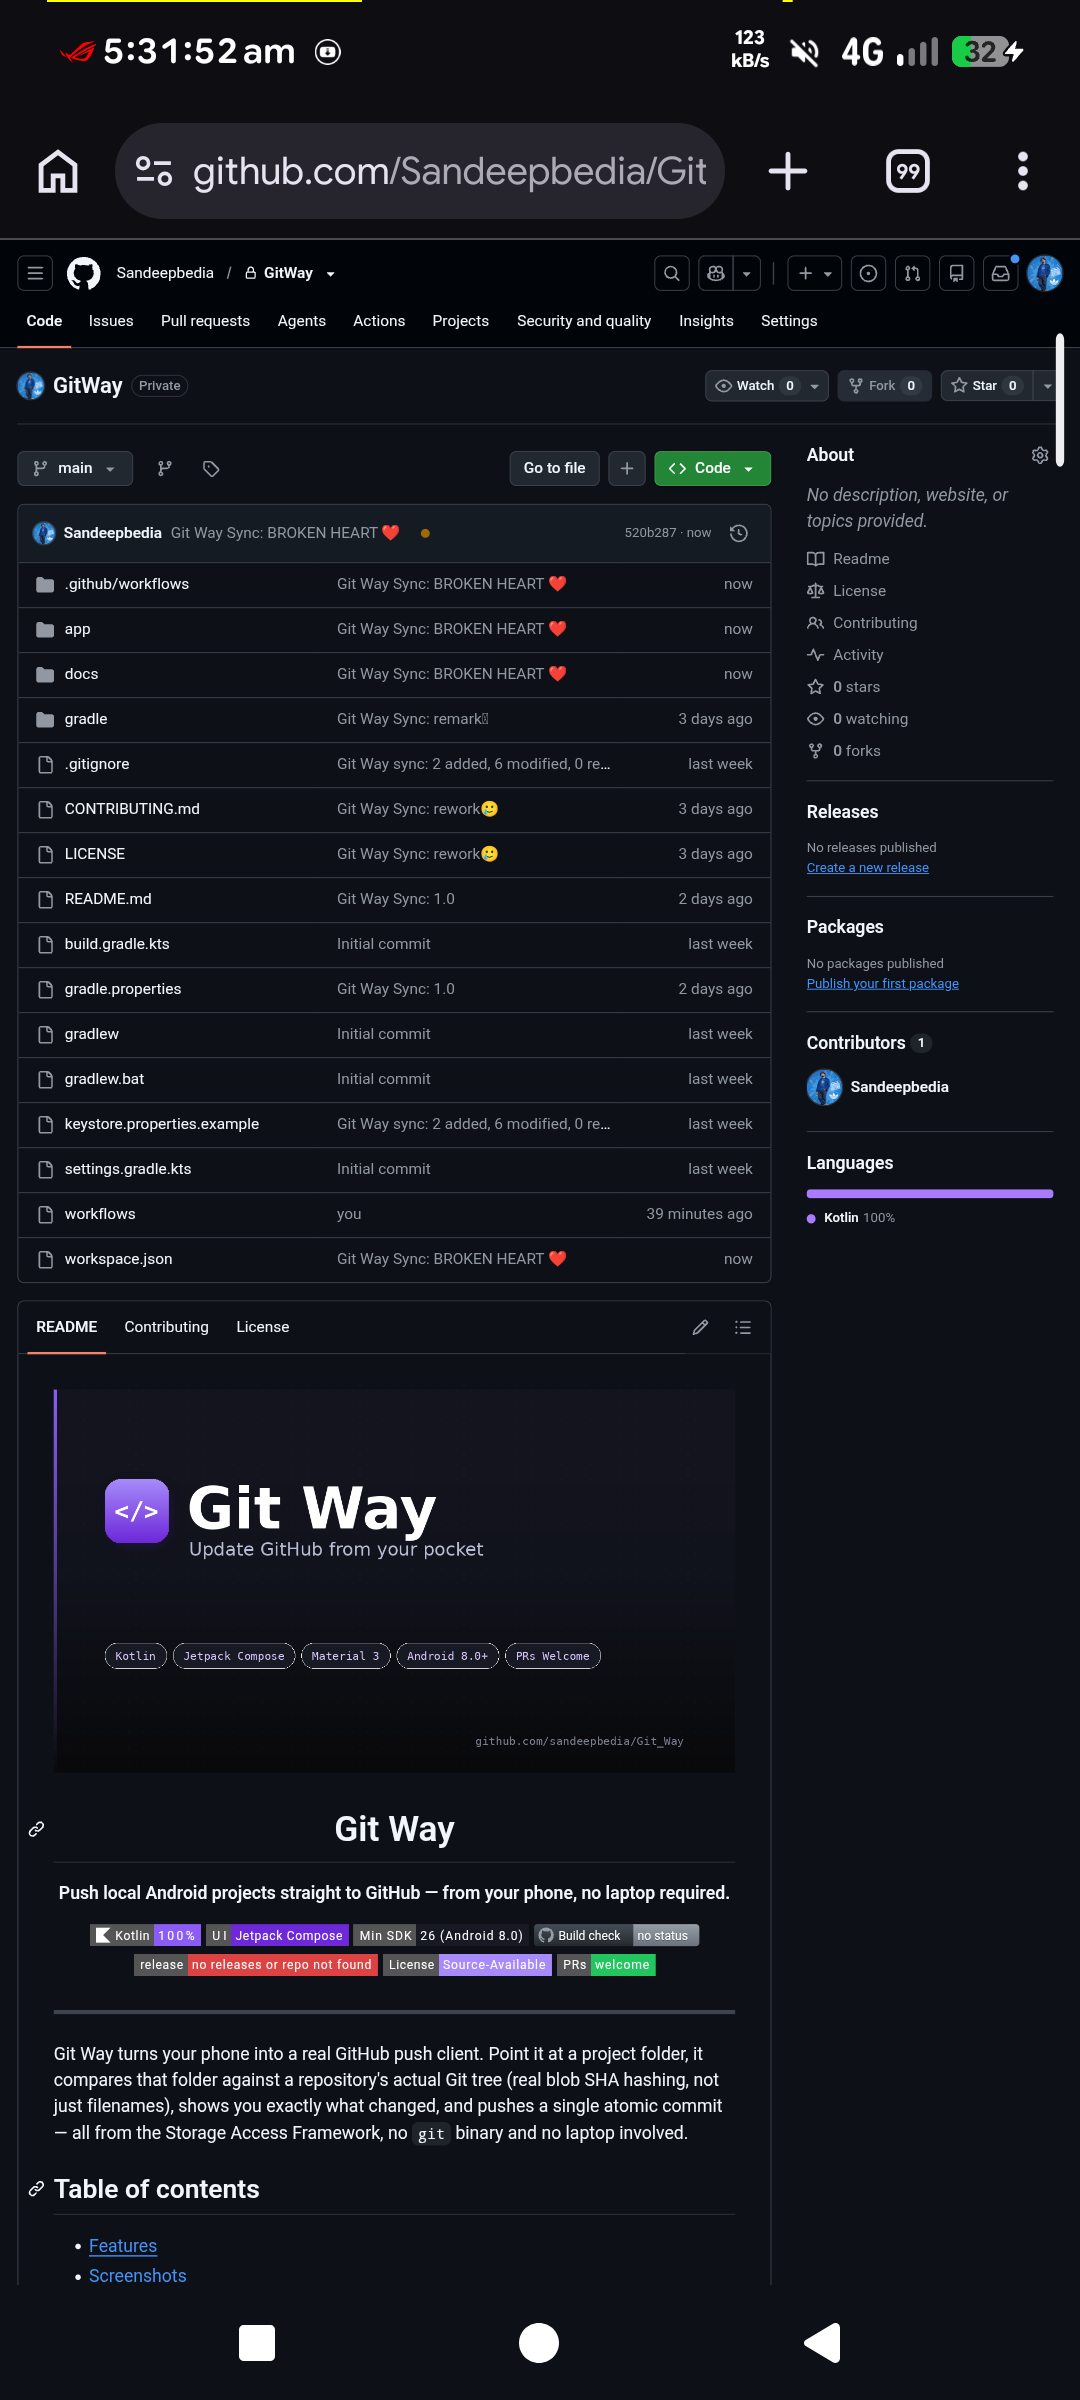
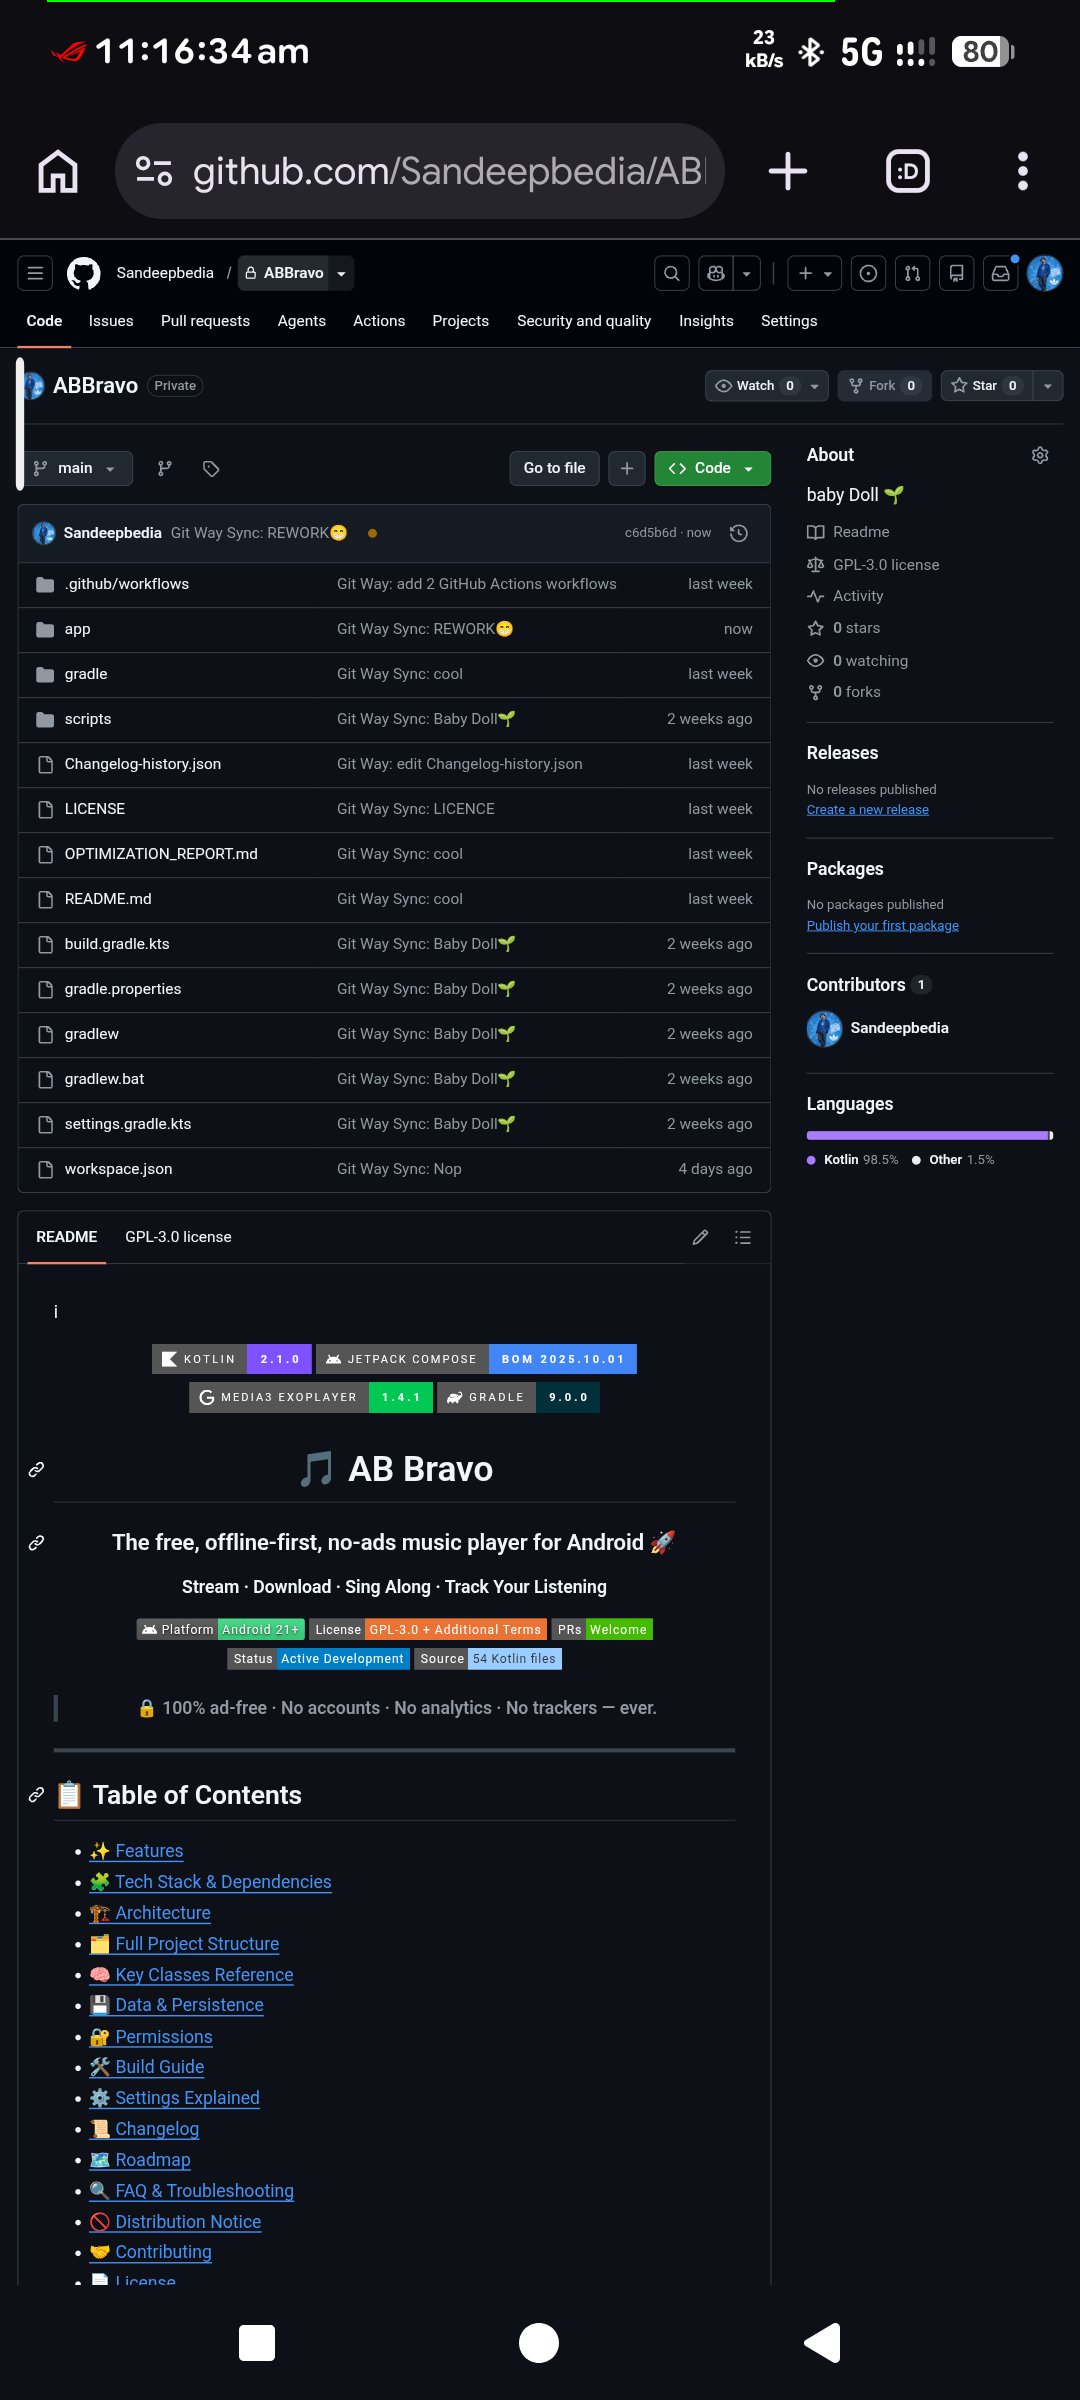
Git Way Sync: ss

diff --git a/README.md b/README.md
@@ -89,14 +89,6 @@ no laptop involved.
     <td width="50%"><img src="docs/screenshots/3.png" width="100%" /></td>
     <td width="50%"><img src="docs/screenshots/4.png" width="100%" /></td>
   </tr>
-  <tr>
-    <td width="50%"><img src="docs/screenshots/5.png" width="100%" /></td>
-    <td width="50%"><img src="docs/screenshots/6.png" width="100%" /></td>
-  </tr>
-  <tr>
-    <td width="50%"><img src="docs/screenshots/7.png" width="100%" /></td>
-    <td width="50%"><img src="docs/screenshots/8.png" width="100%" /></td>
-  </tr>
 </table>
 <!-- SCREENSHOTS:END -->
 
